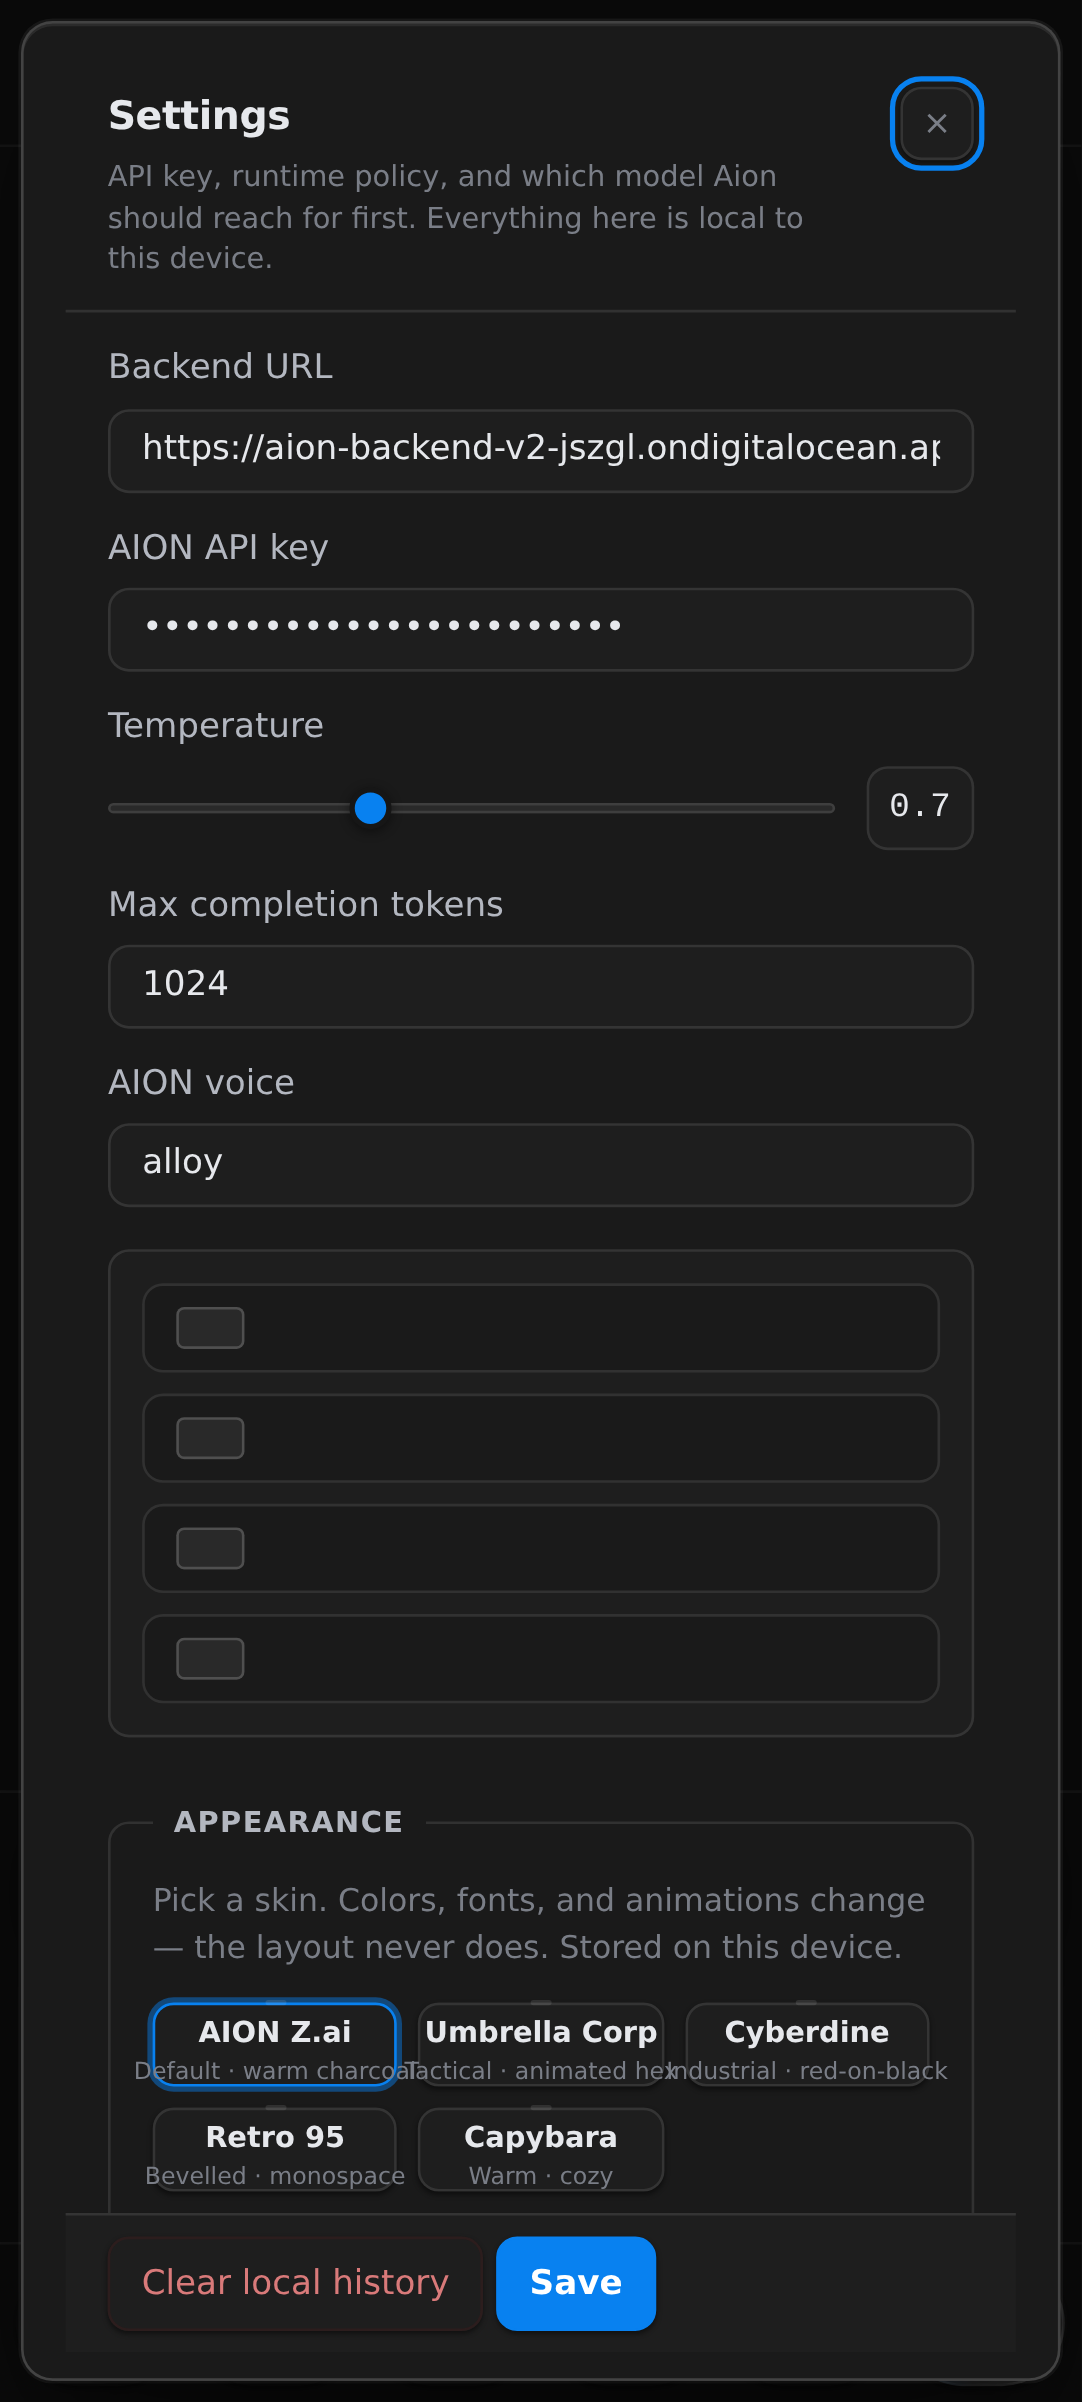
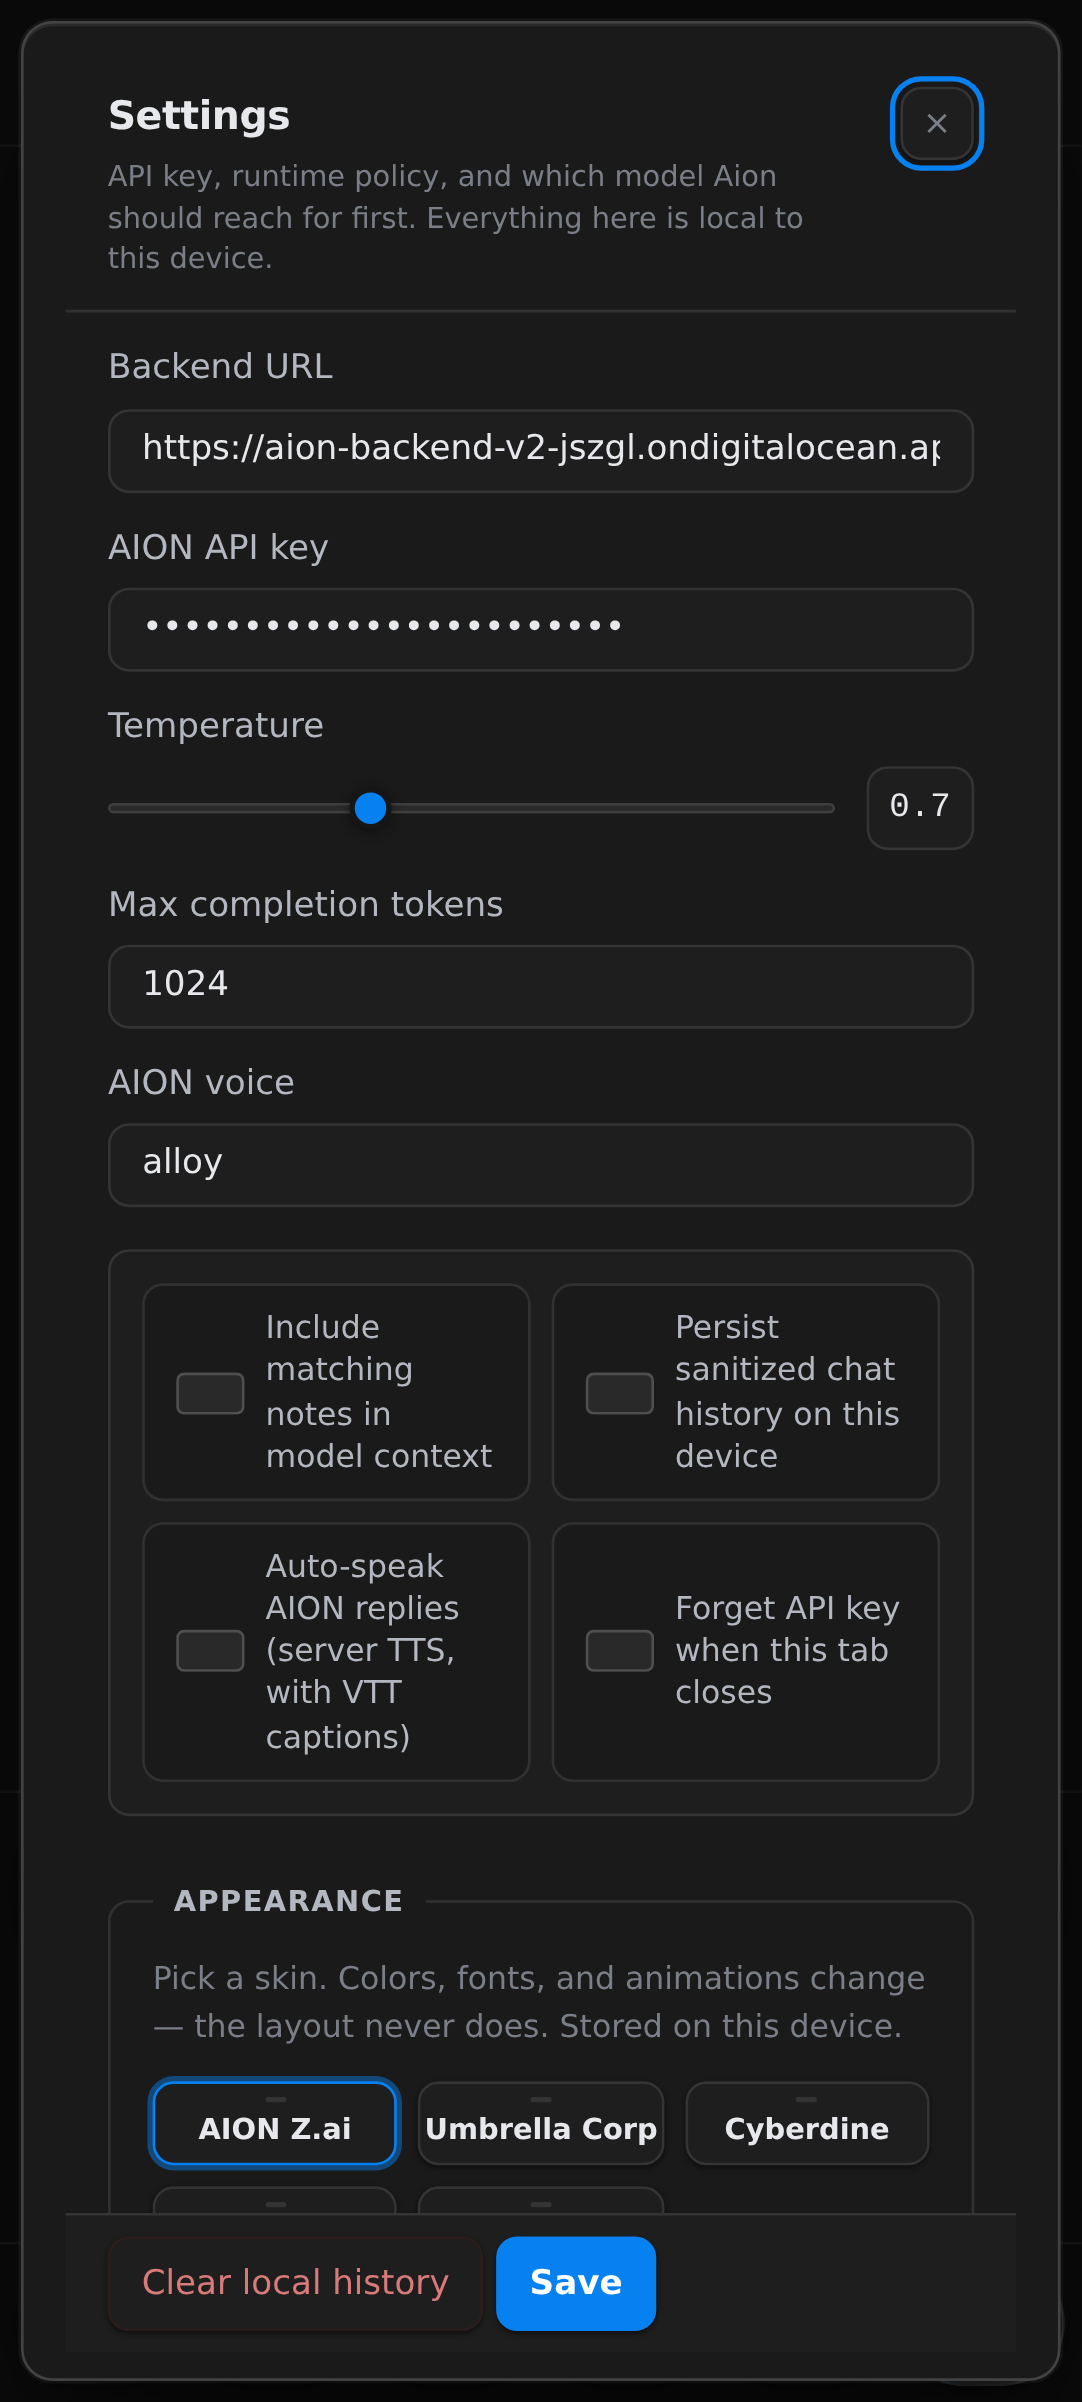
fix(mobile): toggles back to 1-col on mobile — text is too long for 2-col at 412px
The 'Auto-speak AION replies (server TTS, with VTT captions)'
text wraps to 4 lines in a 148px 2-col cell. 1-col gives the
text room. 2-col is desktop-only.

The dialog-actions footer buttons (Save / Clear history) DO
stay full-width each via the existing flex: 1 1 auto rule.

diff --git a/styles-skins.css b/styles-skins.css
@@ -803,12 +803,15 @@ html[data-skin="capybara"] .brand-mark {
     font-size: 14px;
   }
   #settingsDialog .range-row input[type="range"] { flex: 1; }
-  /* Toggles: 2-col grid at >=480px (so the text has room),
-     1-col below 480px (small phones). */
-  #settingsDialog .settings-toggles { gap: var(--s-2); grid-template-columns: 1fr 1fr; }
+  /* Toggles: stack 1-col on mobile. The toggle text is long
+     (e.g. "Auto-speak AION replies (server TTS, with VTT
+     captions)") and doesn't fit in a 148px-wide 2-col cell
+     without ugly 4-line wrapping. 1-col gives the text room
+     to breathe. The 2-col layout is for desktop only. */
+  #settingsDialog .settings-toggles { gap: var(--s-2); grid-template-columns: 1fr; }
   #settingsDialog .settings-toggles > .search-toggle {
-    font-size: 12px;
-    line-height: 1.35;
+    font-size: 13px;
+    line-height: 1.4;
     min-block-size: 44px;
   }
   #settingsDialog .settings-toggles > .search-toggle input[type="checkbox"] {
@@ -854,9 +857,8 @@ html[data-skin="capybara"] .brand-mark {
   }
 }
 
-/* Very small phones (<380px): even tighter */
+/* Very small phones (<380px): skin cards wrap to 2 per row */
 @media (max-width: 380px) {
-  #settingsDialog .settings-toggles { grid-template-columns: 1fr; }
   #settingsDialog fieldset.skin-picker .skin-grid { grid-template-columns: repeat(2, minmax(0, 1fr)); }
 }
 
